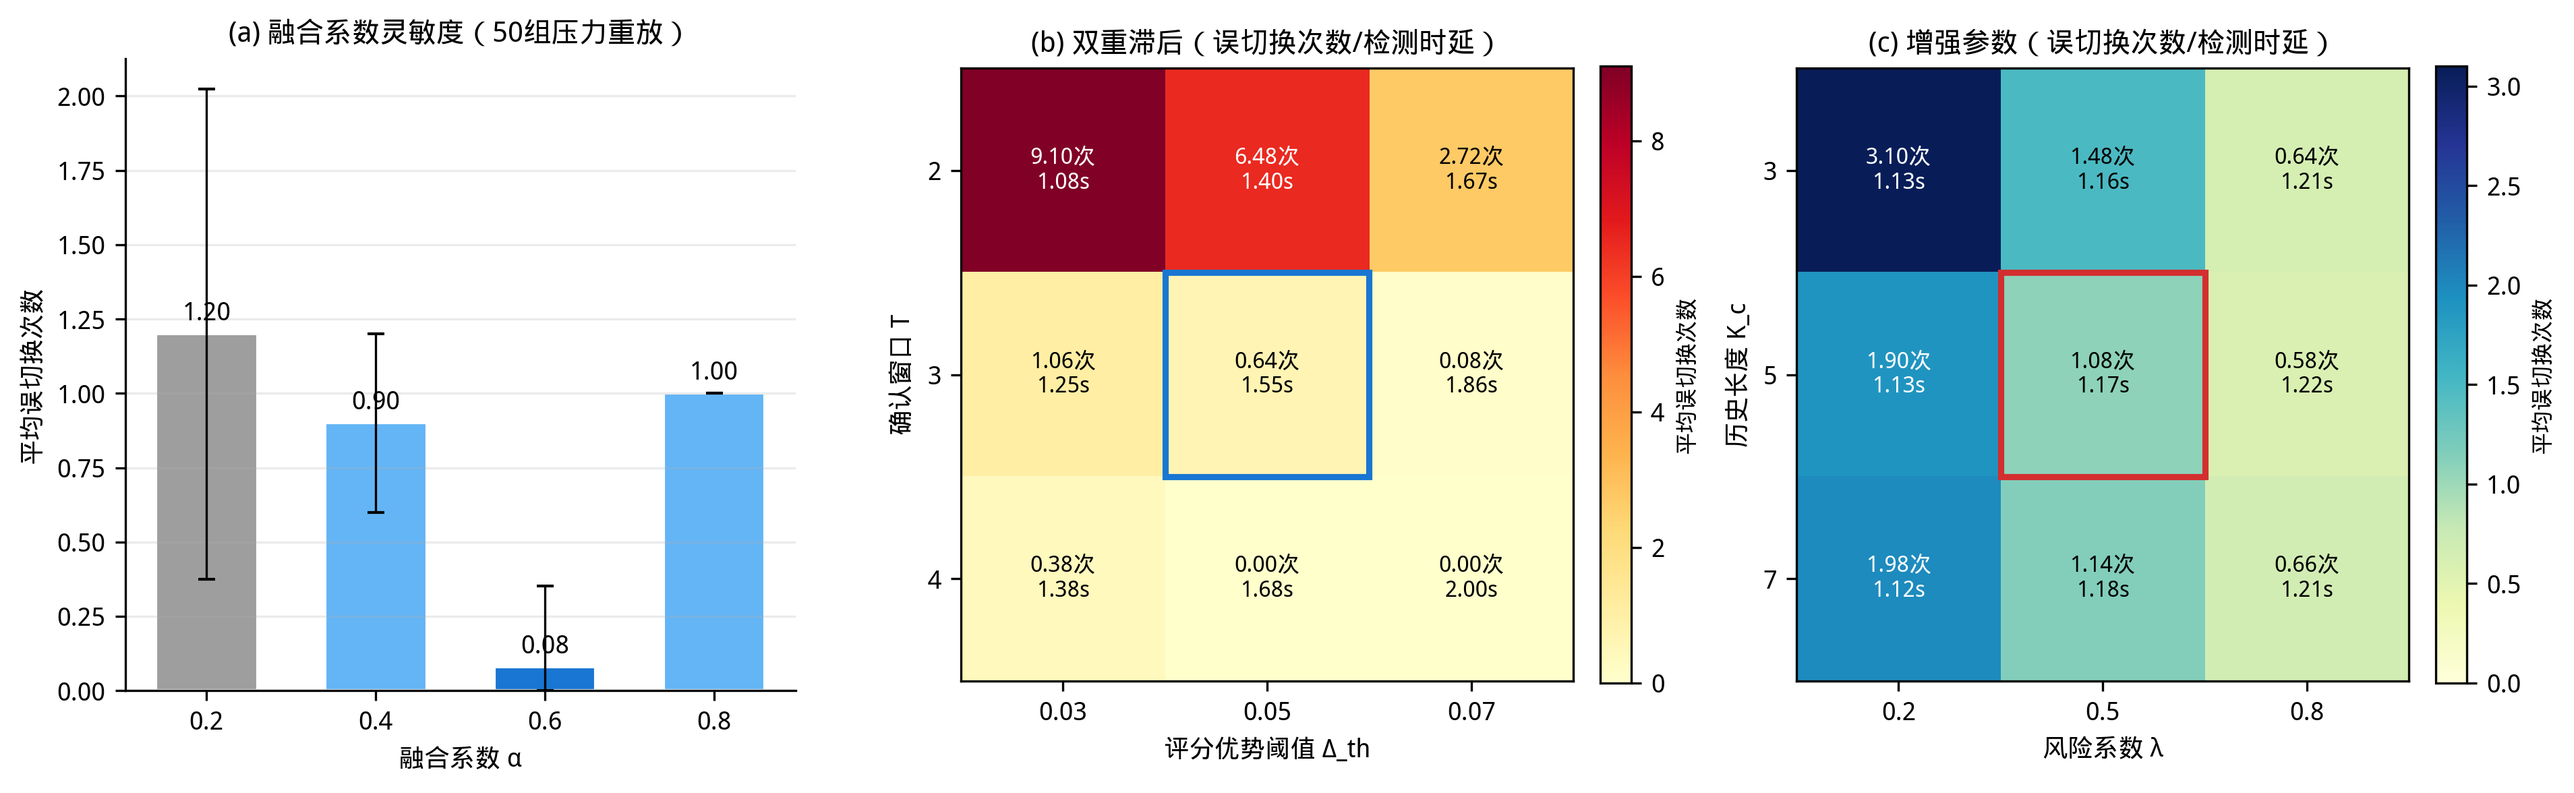
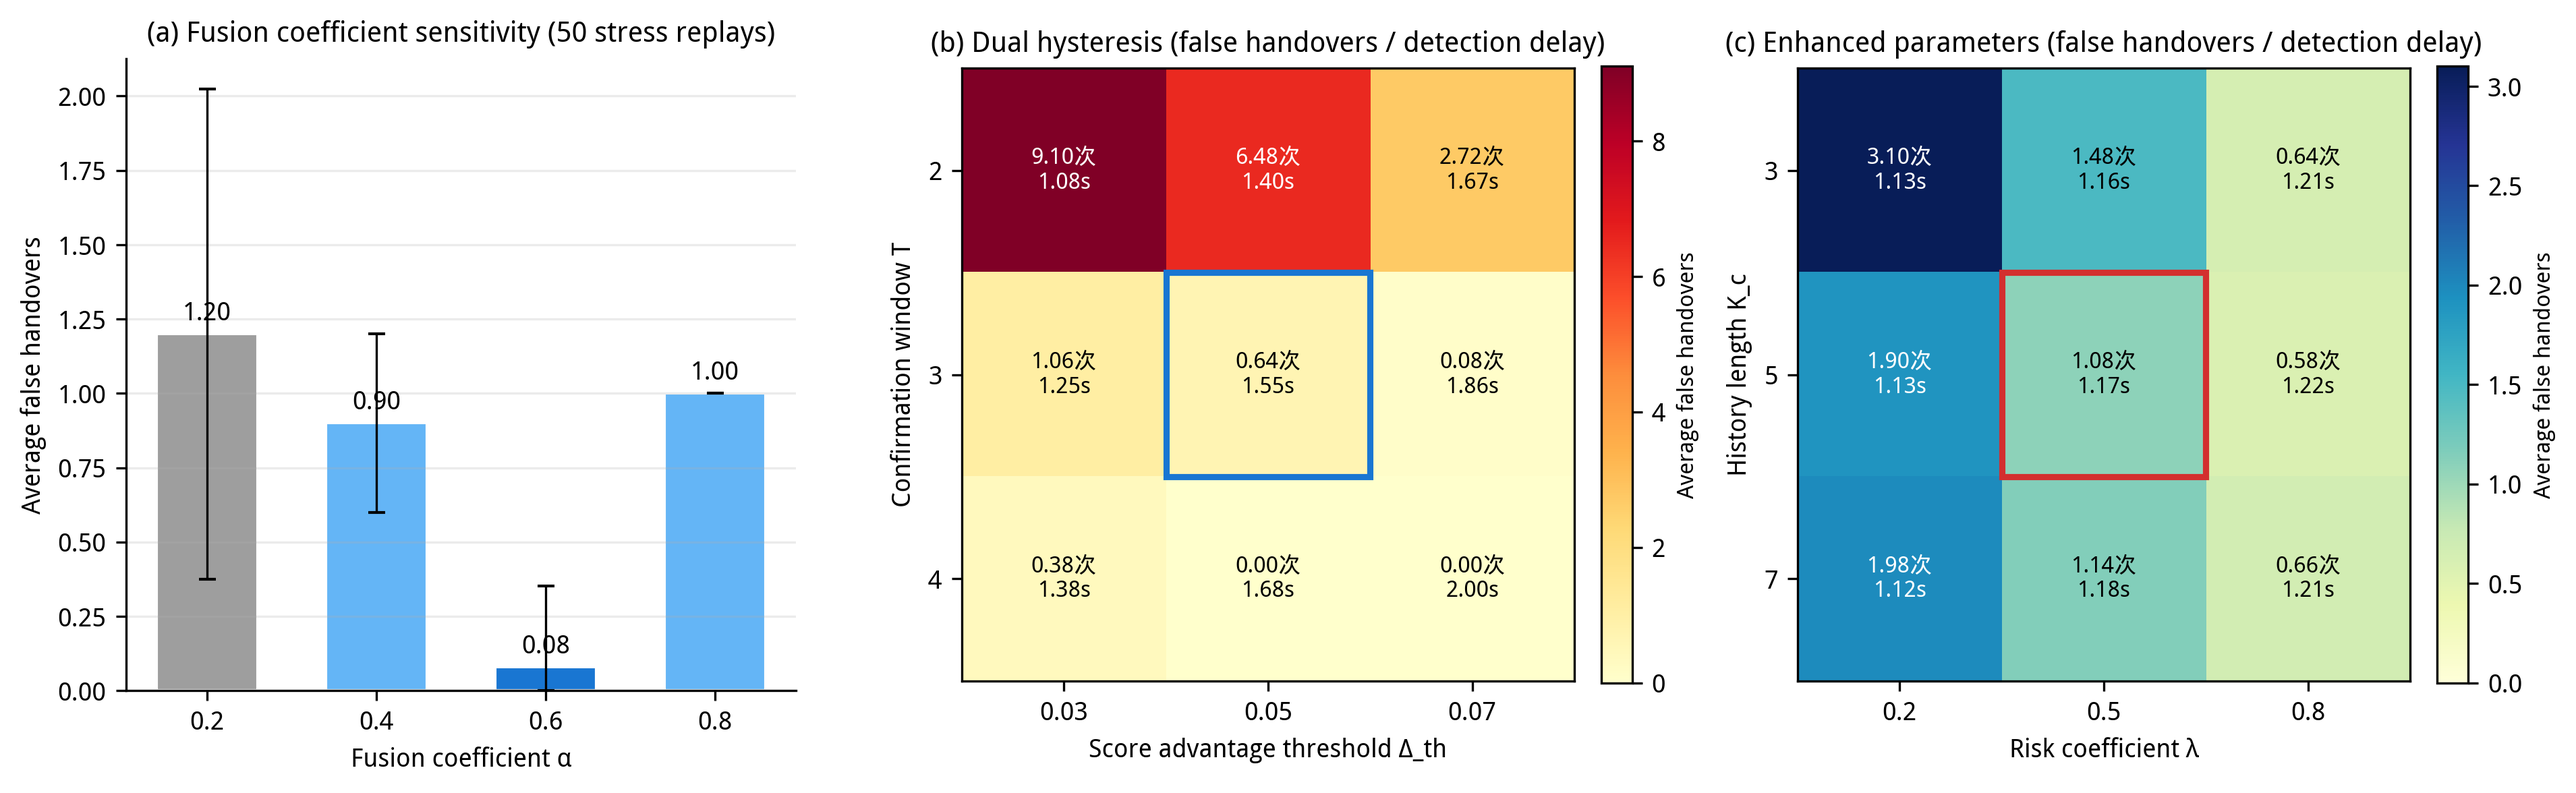
本地化参数敏感性实验图表

diff --git a/experiments/parameter_sensitivity.py b/experiments/parameter_sensitivity.py
@@ -8,7 +8,7 @@ matplotlib.use("Agg")
 import matplotlib.pyplot as plt
 from matplotlib.patches import Rectangle
 import numpy as np
-import pandas as pd
+import csv
 
 
 ROOT = Path("/home/suwen/reproduce")
@@ -179,16 +179,16 @@ def enhancement_sensitivity():
     return history_lengths, risks, false_means, delay_means, detection_rates
 
 
-def annotate_heatmap(axis, false_values, delay_values):
+def annotate_heatmap(axis, false_values, delay_values, handover_unit="次"):
     for row in range(false_values.shape[0]):
         for column in range(false_values.shape[1]):
             color = "white" if false_values[row, column] > false_values.max() * 0.55 else "black"
-            label = f"{false_values[row, column]:.2f}次\n{delay_values[row, column]:.2f}s"
+            label = f"{false_values[row, column]:.2f}{handover_unit}\n{delay_values[row, column]:.2f}s"
             axis.text(column, row, label, ha="center", va="center",
                       color=color, fontsize=8, linespacing=1.15)
 
 
-def main():
+def main(english=False):
     OUT_DIR.mkdir(parents=True, exist_ok=True)
     alphas, alpha_means, alpha_stds = fusion_sensitivity()
     thresholds, windows, fixed_false, fixed_delay, fixed_detection = fixed_hysteresis_sensitivity()
@@ -211,9 +211,9 @@ def main():
     axis.errorbar(alphas, alpha_means, yerr=alpha_errors, fmt="none",
                   ecolor="black", capsize=3, linewidth=0.8)
     axis.set_xticks(alphas)
-    axis.set_xlabel("融合系数 α")
-    axis.set_ylabel("平均误切换次数")
-    axis.set_title("(a) 融合系数灵敏度（50组压力重放）")
+    axis.set_xlabel("Fusion coefficient α")
+    axis.set_ylabel("Average false handovers")
+    axis.set_title("(a) Fusion coefficient sensitivity (50 stress replays)")
     for alpha, mean in zip(alphas, alpha_means):
         axis.text(alpha, mean + 0.025, f"{mean:.2f}", ha="center", va="bottom", fontsize=9)
     axis.grid(axis="y", alpha=0.25)
@@ -221,32 +221,34 @@ def main():
 
     axis = axes[1]
     image = axis.imshow(fixed_false, cmap="YlOrRd", vmin=0, vmax=fixed_false.max())
-    annotate_heatmap(axis, fixed_false, fixed_delay)
+    handover_unit = " times" if english else "次"
+    annotate_heatmap(axis, fixed_false, fixed_delay, handover_unit)
     axis.set_xticks(range(len(thresholds)), [f"{value:.2f}" for value in thresholds])
     axis.set_yticks(range(len(windows)), [str(value) for value in windows])
-    axis.set_xlabel("评分优势阈值 Δ_th")
-    axis.set_ylabel("确认窗口 T")
-    axis.set_title("(b) 双重滞后（误切换次数/检测时延）")
+    axis.set_xlabel("Score advantage threshold Δ_th")
+    axis.set_ylabel("Confirmation window T")
+    axis.set_title("(b) Dual hysteresis (false handovers / detection delay)")
     axis.add_patch(Rectangle((0.5, 0.5), 1, 1, fill=False,
                              edgecolor="#1976D2", linewidth=2.2))
     colorbar = fig.colorbar(image, ax=axis, fraction=0.046, pad=0.04)
-    colorbar.set_label("平均误切换次数", fontsize=8)
+    colorbar.set_label("Average false handovers", fontsize=8)
 
     axis = axes[2]
     image = axis.imshow(enhanced_false, cmap="YlGnBu", vmin=0, vmax=enhanced_false.max())
-    annotate_heatmap(axis, enhanced_false, enhanced_delay)
+    annotate_heatmap(axis, enhanced_false, enhanced_delay, handover_unit)
     axis.set_xticks(range(len(risks)), [f"{value:.1f}" for value in risks])
     axis.set_yticks(range(len(histories)), [str(value) for value in histories])
-    axis.set_xlabel("风险系数 λ")
-    axis.set_ylabel("历史长度 K_c")
-    axis.set_title("(c) 增强参数（误切换次数/检测时延）")
+    axis.set_xlabel("Risk coefficient λ")
+    axis.set_ylabel("History length K_c")
+    axis.set_title("(c) Enhanced parameters (false handovers / detection delay)")
     axis.add_patch(Rectangle((0.5, 0.5), 1, 1, fill=False,
                              edgecolor="#D32F2F", linewidth=2.2))
     colorbar = fig.colorbar(image, ax=axis, fraction=0.046, pad=0.04)
-    colorbar.set_label("平均误切换次数", fontsize=8)
+    colorbar.set_label("Average false handovers", fontsize=8)
 
     fig.tight_layout()
-    figure_path = OUT_DIR / "fig_parameter_sensitivity.png"
+    figure_name = "fig_parameter_sensitivity_en.png" if english else "fig_parameter_sensitivity.png"
+    figure_path = OUT_DIR / figure_name
     fig.savefig(figure_path, dpi=300, bbox_inches="tight")
     plt.close(fig)
 
@@ -266,7 +268,15 @@ def main():
                          "risk_lambda": risk, "mean_false_handovers": enhanced_false[row, column],
                          "mean_detection_delay_s": enhanced_delay[row, column],
                          "required_detection_rate": enhanced_detection[row, column]})
-    pd.DataFrame(rows).to_csv(ROOT / "experiments/parameter_sensitivity_results.csv", index=False)
+    csv_path = ROOT / "experiments/parameter_sensitivity_results.csv"
+    with open(csv_path, 'w', newline='') as csvfile:
+        all_keys = set()
+        for row in rows:
+            all_keys.update(row.keys())
+        fieldnames = sorted(all_keys)
+        writer = csv.DictWriter(csvfile, fieldnames=fieldnames)
+        writer.writeheader()
+        writer.writerows(rows)
 
     print(f"Saved: {figure_path}")
     print("Fusion means:", dict(zip(alphas, alpha_means)))
@@ -277,4 +287,5 @@ def main():
 
 
 if __name__ == "__main__":
-    main()
+    import sys
+    main(english="--english" in sys.argv[1:])
